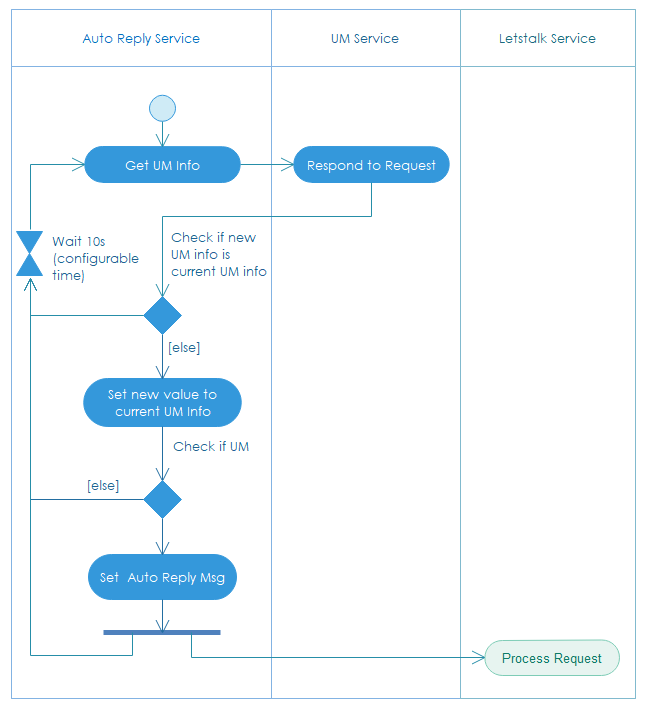
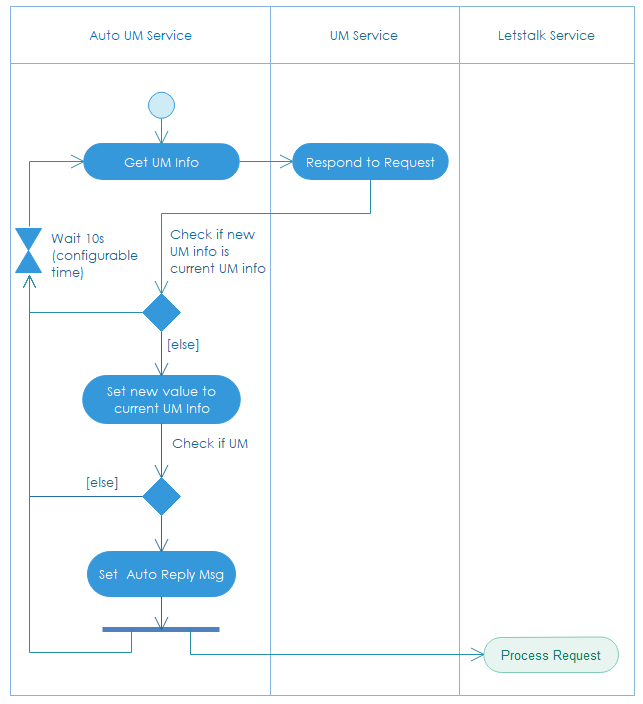
0000 update chatbot services

diff --git a/docs/bot-services/auto-um-service.rst b/docs/bot-services/auto-um-service.rst
@@ -1,0 +1,14 @@
+Auto UM Service
+**************************
+
+Set message that is used by ``Chatbot`` for automated replying to Letstalk users during UM. 
+
+**Activity Diagram**
+
+.. figure:: assets/auto_reply_msg.png
+    :alt: auto um Service
+    :align: left
+
+-------
+.. image:: assets/auto_reply_msg_hld.png
+

diff --git a/docs/index.rst b/docs/index.rst
@@ -24,7 +24,7 @@
    overview/database-design
 
 .. toctree::
-   :caption: Letstalk Chatbot Services
+   :caption: Chatbot Services
    :glob:
    :maxdepth: 2
    

diff --git a/docs/bot-services/schedule-service.rst b/docs/bot-services/schedule-service.rst
@@ -1,5 +1,5 @@
 **************************
-Notification Services
+Schedule Service
 **************************
 
 .. contents:: Table of Contents

diff --git a/docs/bot-services/reply-service.rst b/docs/bot-services/reply-service.rst
@@ -1,0 +1,5 @@
+Reply Service
+**************************
+
+
+
